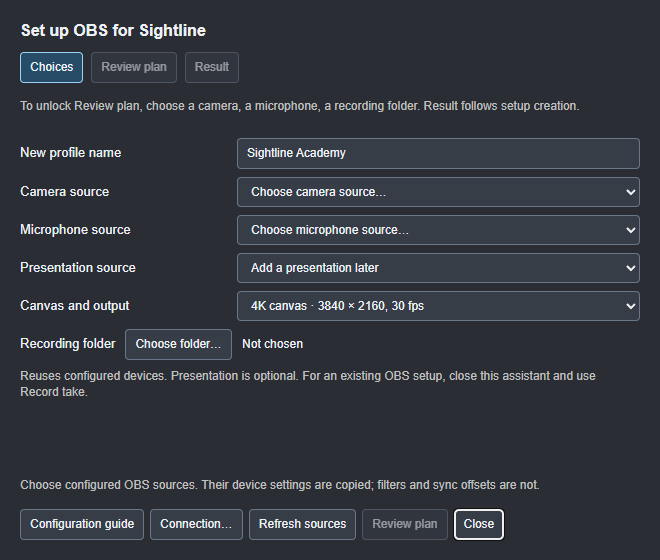
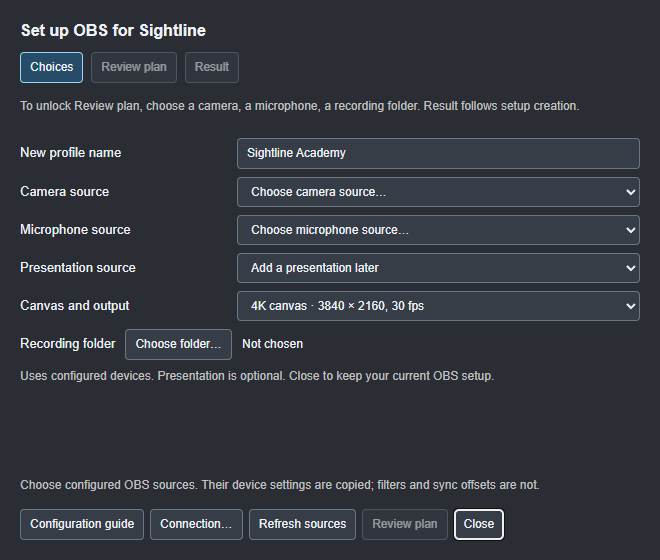
docs: keep optional OBS setup guidance compact

Changed region(s): [[0.0303, 0.6375, 0.9091, 0.7286]]

diff --git a/src/client/teleprompter.html b/src/client/teleprompter.html
@@ -716,7 +716,7 @@
             <label class="workflow-option">Presentation source <select id="setup-presentation"></select></label>
             <label class="workflow-option">Canvas and output <select id="setup-height"><option value="2160">4K canvas · 3840 × 2160, 30 fps</option><option value="1080">1080p canvas · 1920 × 1080, 30 fps</option></select></label>
             <div class="workflow-option"><span>Recording folder</span><button type="button" id="setup-folder">Choose folder…</button><span id="setup-directory" class="field-hint">Not chosen</span></div>
-            <p class="field-hint">Reuses configured devices. Presentation is optional. For an existing OBS setup, close this assistant and use Record take.</p>
+            <p class="field-hint">Uses configured devices. Presentation is optional. Close to keep your current OBS setup.</p>
           </section>
           <section data-setup-panel="review" id="setup-review-panel" role="tabpanel" aria-labelledby="setup-review-tab" hidden><div id="setup-plan"></div></section>
           <section data-setup-panel="result" id="setup-result-panel" role="tabpanel" aria-labelledby="setup-result-tab" hidden><p id="setup-result"></p><button type="button" id="setup-restore" hidden>Use previous setup</button></section>

diff --git a/docs/guide/15-obs-setup.md b/docs/guide/15-obs-setup.md
@@ -44,6 +44,7 @@ are chosen. The hint below the stage buttons names missing choices; either
 Review plan button opens the same review. **Result** becomes available after
 creating the reviewed setup. This assistant is optional: if your current OBS
 setup is ready, close it and use Record take on the prompter.
+The choices screen also makes clear that closing keeps the current OBS setup.
 
 ![OBS setup choices using illustrative configured sources](images/obs-setup-choices.png)
 
